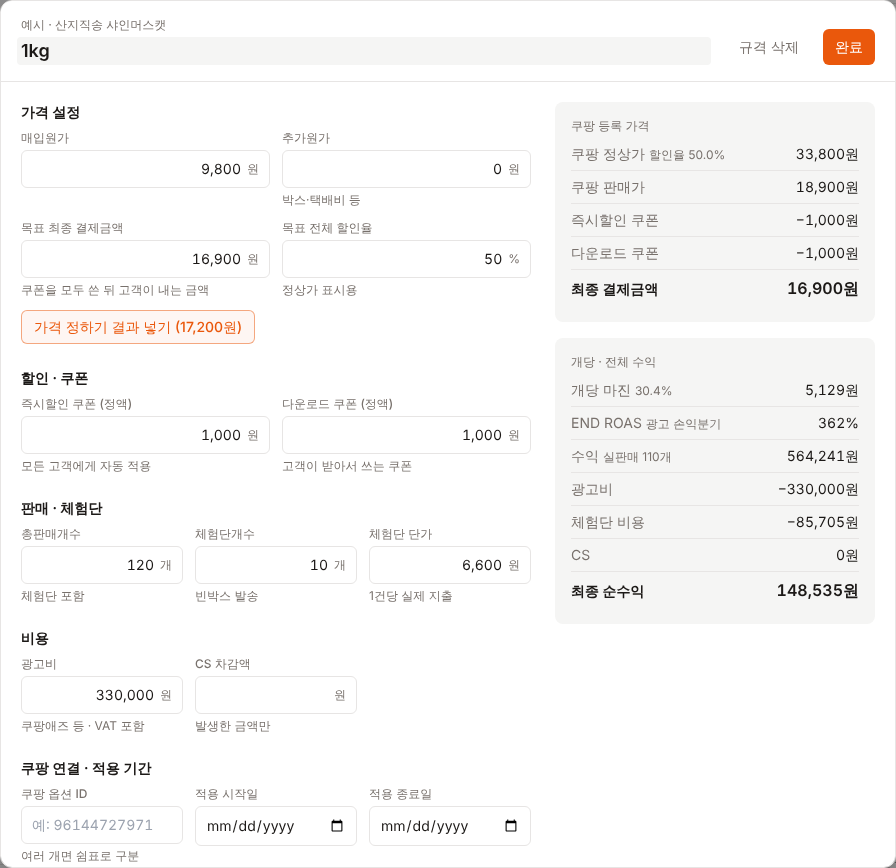
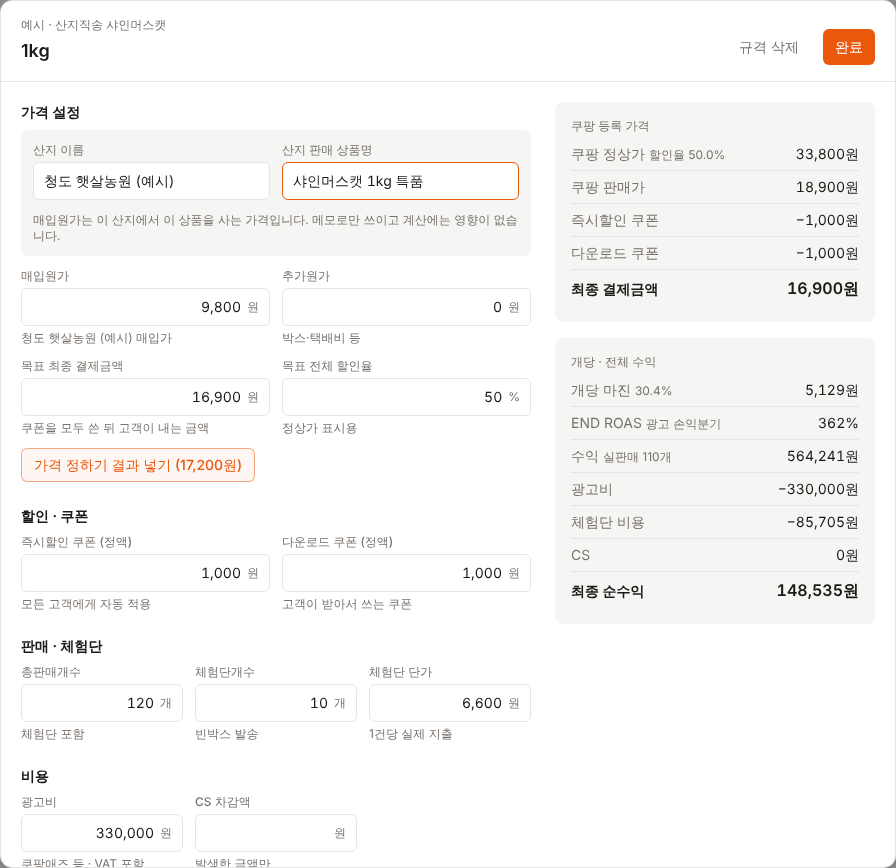
규격에 산지 이름·산지 판매 상품명 메모 추가
매입원가가 어느 산지의 어떤 상품 가격인지 남길 수 있도록 규격 편집의 가격 설정에 메모 칸 두 개를 넣었다.
상품 표의 규격 아래에 표시하고 엑셀 내보내기·불러오기에 '산지', '산지 상품명' 열로 함께 넣는다. 계산에는 영향이 없다.

Claude-Session: https://claude.ai/code/session_01Vrqhj2441wb3p9PaBYYXkv

diff --git a/assets/tailwind.css b/assets/tailwind.css
@@ -1,1 +1,1 @@
-*,:after,:before{--tw-border-spacing-x:0;--tw-border-spacing-y:0;--tw-translate-x:0;--tw-translate-y:0;--tw-rotate:0;--tw-skew-x:0;--tw-skew-y:0;--tw-scale-x:1;--tw-scale-y:1;--tw-pan-x: ;--tw-pan-y: ;--tw-pinch-zoom: ;--tw-scroll-snap-strictness:proximity;--tw-gradient-from-position: ;--tw-gradient-via-position: ;--tw-gradient-to-position: ;--tw-ordinal: ;--tw-slashed-zero: ;--tw-numeric-figure: ;--tw-numeric-spacing: ;--tw-numeric-fraction: ;--tw-ring-inset: ;--tw-ring-offset-width:0px;--tw-ring-offset-color:#fff;--tw-ring-color:rgba(59,130,246,.5);--tw-ring-offset-shadow:0 0 #0000;--tw-ring-shadow:0 0 #0000;--tw-shadow:0 0 #0000;--tw-shadow-colored:0 0 #0000;--tw-blur: ;--tw-brightness: ;--tw-contrast: ;--tw-grayscale: ;--tw-hue-rotate: ;--tw-invert: ;--tw-saturate: ;--tw-sepia: ;--tw-drop-shadow: ;--tw-backdrop-blur: ;--tw-backdrop-brightness: ;--tw-backdrop-contrast: ;--tw-backdrop-grayscale: ;--tw-backdrop-hue-rotate: ;--tw-backdrop-invert: ;--tw-backdrop-opacity: ;--tw-backdrop-saturate: ;--tw-backdrop-sepia: ;--tw-contain-size: ;--tw-contain-layout: ;--tw-contain-paint: ;--tw-contain-style: }::backdrop{--tw-border-spacing-x:0;--tw-border-spacing-y:0;--tw-translate-x:0;--tw-translate-y:0;--tw-rotate:0;--tw-skew-x:0;--tw-skew-y:0;--tw-scale-x:1;--tw-scale-y:1;--tw-pan-x: ;--tw-pan-y: ;--tw-pinch-zoom: ;--tw-scroll-snap-strictness:proximity;--tw-gradient-from-position: ;--tw-gradient-via-position: ;--tw-gradient-to-position: ;--tw-ordinal: ;--tw-slashed-zero: ;--tw-numeric-figure: ;--tw-numeric-spacing: ;--tw-numeric-fraction: ;--tw-ring-inset: ;--tw-ring-offset-width:0px;--tw-ring-offset-color:#fff;--tw-ring-color:rgba(59,130,246,.5);--tw-ring-offset-shadow:0 0 #0000;--tw-ring-shadow:0 0 #0000;--tw-shadow:0 0 #0000;--tw-shadow-colored:0 0 #0000;--tw-blur: ;--tw-brightness: ;--tw-contrast: ;--tw-grayscale: ;--tw-hue-rotate: ;--tw-invert: ;--tw-saturate: ;--tw-sepia: ;--tw-drop-shadow: ;--tw-backdrop-blur: ;--tw-backdrop-brightness: ;--tw-backdrop-contrast: ;--tw-backdrop-grayscale: ;--tw-backdrop-hue-rotate: ;--tw-backdrop-invert: ;--tw-backdrop-opacity: ;--tw-backdrop-saturate: ;--tw-backdrop-sepia: ;--tw-contain-size: ;--tw-contain-layout: ;--tw-contain-paint: ;--tw-contain-style: }/*! tailwindcss v3.4.17 | MIT License | https://tailwindcss.com*/*,:after,:before{box-sizing:border-box;border:0 solid #e5e7eb}:after,:before{--tw-content:""}:host,html{line-height:1.5;-webkit-text-size-adjust:100%;-moz-tab-size:4;-o-tab-size:4;tab-size:4;font-family:var(--font-sans);font-feature-settings:normal;font-variation-settings:normal;-webkit-tap-highlight-color:transparent}body{margin:0;line-height:inherit}hr{height:0;color:inherit;border-top-width:1px}abbr:where([title]){-webkit-text-decoration:underline dotted;text-decoration:underline dotted}h1,h2,h3,h4,h5,h6{font-size:inherit;font-weight:inherit}a{color:inherit;text-decoration:inherit}b,strong{font-weight:bolder}code,kbd,pre,samp{font-family:ui-monospace,SFMono-Regular,Menlo,Monaco,Consolas,Liberation Mono,Courier New,monospace;font-feature-settings:normal;font-variation-settings:normal;font-size:1em}small{font-size:80%}sub,sup{font-size:75%;line-height:0;position:relative;vertical-align:baseline}sub{bottom:-.25em}sup{top:-.5em}table{text-indent:0;border-color:inherit;border-collapse:collapse}button,input,optgroup,select,textarea{font-family:inherit;font-feature-settings:inherit;font-variation-settings:inherit;font-size:100%;font-weight:inherit;line-height:inherit;letter-spacing:inherit;color:inherit;margin:0;padding:0}button,select{text-transform:none}button,input:where([type=button]),input:where([type=reset]),input:where([type=submit]){-webkit-appearance:button;background-color:transparent;background-image:none}:-moz-focusring{outline:auto}:-moz-ui-invalid{box-shadow:none}progress{vertical-align:baseline}::-webkit-inner-spin-button,::-webkit-outer-spin-button{height:auto}[type=search]{-webkit-appearance:textfield;outline-offset:-2px}::-webkit-search-decoration{-webkit-appearance:none}::-webkit-file-upload-button{-webkit-appearance:button;font:inherit}summary{display:list-item}blockquote,dd,dl,figure,h1,h2,h3,h4,h5,h6,hr,p,pre{margin:0}fieldset{margin:0}fieldset,legend{padding:0}menu,ol,ul{list-style:none;margin:0;padding:0}dialog{padding:0}textarea{resize:vertical}input::-moz-placeholder,textarea::-moz-placeholder{opacity:1;color:#9ca3af}input::placeholder,textarea::placeholder{opacity:1;color:#9ca3af}[role=button],button{cursor:pointer}:disabled{cursor:default}audio,canvas,embed,iframe,img,object,svg,video{display:block;vertical-align:middle}img,video{max-width:100%;height:auto}[hidden]:where(:not([hidden=until-found])){display:none}.sr-only{position:absolute;width:1px;height:1px;padding:0;margin:-1px;overflow:hidden;clip:rect(0,0,0,0);white-space:nowrap;border-width:0}.pointer-events-none{pointer-events:none}.fixed{position:fixed}.absolute{position:absolute}.relative{position:relative}.sticky{position:sticky}.inset-0{inset:0}.inset-x-0{left:0;right:0}.inset-y-0{top:0;bottom:0}.left-0{left:0}.left-1{left:.25rem}.right-0{right:0}.top-0{top:0}.top-1\/2{top:50%}.z-dialog{z-index:50}.z-drawer{z-index:40}.z-header{z-index:10}.col-span-2{grid-column:span 2/span 2}.m-auto{margin:auto}.-mx-1{margin-left:-.25rem;margin-right:-.25rem}.mx-2{margin-left:.5rem;margin-right:.5rem}.mx-auto{margin-left:auto;margin-right:auto}.-mb-px{margin-bottom:-1px}.mb-1{margin-bottom:.25rem}.mb-2{margin-bottom:.5rem}.mt-1{margin-top:.25rem}.mt-3{margin-top:.75rem}.flex{display:flex}.inline-flex{display:inline-flex}.table{display:table}.grid{display:grid}.hidden{display:none}.size-3{width:.75rem;height:.75rem}.size-4{width:1rem;height:1rem}.size-8{width:2rem;height:2rem}.size-9{width:2.25rem;height:2.25rem}.h-10{height:2.5rem}.h-full{height:100%}.max-h-\[calc\(100dvh-2rem\)\]{max-height:calc(100dvh - 2rem)}.min-h-dvh{min-height:100dvh}.w-0\.5{width:.125rem}.w-1{width:.25rem}.w-14{width:3.5rem}.w-20{width:5rem}.w-3{width:.75rem}.w-32{width:8rem}.w-36{width:9rem}.w-40{width:10rem}.w-52{width:13rem}.w-56{width:14rem}.w-\[calc\(100\%-2rem\)\]{width:calc(100% - 2rem)}.w-full{width:100%}.w-px{width:1px}.min-w-0{min-width:0}.min-w-\[560px\]{min-width:560px}.min-w-\[760px\]{min-width:760px}.min-w-\[820px\]{min-width:820px}.min-w-\[980px\]{min-width:980px}.max-w-4xl{max-width:56rem}.max-w-6xl{max-width:72rem}.max-w-\[20rem\]{max-width:20rem}.max-w-full{max-width:100%}.max-w-md{max-width:28rem}.max-w-sm{max-width:24rem}.flex-1{flex:1 1 0%}.shrink-0{flex-shrink:0}.basis-40{flex-basis:10rem}.basis-56{flex-basis:14rem}.basis-60{flex-basis:15rem}.basis-64{flex-basis:16rem}.-translate-x-1\/2{--tw-translate-x:-50%}.-translate-x-1\/2,.-translate-y-1\/2{transform:translate(var(--tw-translate-x),var(--tw-translate-y)) rotate(var(--tw-rotate)) skewX(var(--tw-skew-x)) skewY(var(--tw-skew-y)) scaleX(var(--tw-scale-x)) scaleY(var(--tw-scale-y))}.-translate-y-1\/2{--tw-translate-y:-50%}.cursor-col-resize{cursor:col-resize}.cursor-default{cursor:default}.cursor-pointer{cursor:pointer}.list-disc{list-style-type:disc}.grid-cols-2{grid-template-columns:repeat(2,minmax(0,1fr))}.grid-cols-\[minmax\(0\2c 1fr\)_auto\]{grid-template-columns:minmax(0,1fr) auto}.grid-cols-\[repeat\(auto-fill\2c minmax\(8\.5rem\2c 1fr\)\)\]{grid-template-columns:repeat(auto-fill,minmax(8.5rem,1fr))}.flex-col{flex-direction:column}.flex-wrap{flex-wrap:wrap}.items-start{align-items:flex-start}.items-end{align-items:flex-end}.items-center{align-items:center}.items-baseline{align-items:baseline}.justify-end{justify-content:flex-end}.justify-center{justify-content:center}.justify-between{justify-content:space-between}.gap-0\.5{gap:.125rem}.gap-1{gap:.25rem}.gap-1\.5{gap:.375rem}.gap-2{gap:.5rem}.gap-3{gap:.75rem}.gap-4{gap:1rem}.gap-6{gap:1.5rem}.gap-px{gap:1px}.gap-x-2{-moz-column-gap:.5rem;column-gap:.5rem}.gap-x-3{-moz-column-gap:.75rem;column-gap:.75rem}.gap-x-4{-moz-column-gap:1rem;column-gap:1rem}.gap-x-6{-moz-column-gap:1.5rem;column-gap:1.5rem}.gap-y-1{row-gap:.25rem}.gap-y-2{row-gap:.5rem}.gap-y-3{row-gap:.75rem}.divide-y>:not([hidden])~:not([hidden]){--tw-divide-y-reverse:0;border-top-width:calc(1px*(1 - var(--tw-divide-y-reverse)));border-bottom-width:calc(1px*var(--tw-divide-y-reverse))}.divide-line>:not([hidden])~:not([hidden]){--tw-divide-opacity:1;border-color:rgb(var(--line)/var(--tw-divide-opacity,1))}.self-start{align-self:flex-start}.overflow-hidden{overflow:hidden}.overflow-x-auto{overflow-x:auto}.overflow-y-auto{overflow-y:auto}.truncate{overflow:hidden;text-overflow:ellipsis}.truncate,.whitespace-nowrap{white-space:nowrap}.text-balance{text-wrap:balance}.text-pretty{text-wrap:pretty}.rounded{border-radius:.25rem}.rounded-full{border-radius:9999px}.rounded-lg{border-radius:.5rem}.rounded-md{border-radius:.375rem}.rounded-xl{border-radius:.75rem}.rounded-b{border-bottom-right-radius:.25rem;border-bottom-left-radius:.25rem}.rounded-t{border-top-left-radius:.25rem;border-top-right-radius:.25rem}.border{border-width:1px}.border-2{border-width:2px}.border-b{border-bottom-width:1px}.border-b-2{border-bottom-width:2px}.border-l{border-left-width:1px}.border-l-2{border-left-width:2px}.border-t{border-top-width:1px}.border-dashed{border-style:dashed}.border-accent{--tw-border-opacity:1;border-color:rgb(var(--accent)/var(--tw-border-opacity,1))}.border-accent\/40{border-color:rgb(var(--accent)/.4)}.border-accent\/50{border-color:rgb(var(--accent)/.5)}.border-fg\/40{border-color:rgb(var(--fg)/.4)}.border-line{--tw-border-opacity:1;border-color:rgb(var(--line)/var(--tw-border-opacity,1))}.border-neg{--tw-border-opacity:1;border-color:rgb(var(--neg)/var(--tw-border-opacity,1))}.border-surface{--tw-border-opacity:1;border-color:rgb(var(--surface)/var(--tw-border-opacity,1))}.border-transparent{border-color:transparent}.border-warn{--tw-border-opacity:1;border-color:rgb(var(--warn)/var(--tw-border-opacity,1))}.border-warn\/40{border-color:rgb(var(--warn)/.4)}.bg-accent{--tw-bg-opacity:1;background-color:rgb(var(--accent)/var(--tw-bg-opacity,1))}.bg-accent\/10{background-color:rgb(var(--accent)/.1)}.bg-accent\/15{background-color:rgb(var(--accent)/.15)}.bg-accent\/5{background-color:rgb(var(--accent)/.05)}.bg-black\/40{background-color:rgba(0,0,0,.4)}.bg-fg{background-color:rgb(var(--fg)/var(--tw-bg-opacity,1))}.bg-fg,.bg-line{--tw-bg-opacity:1}.bg-line{background-color:rgb(var(--line)/var(--tw-bg-opacity,1))}.bg-muted{--tw-bg-opacity:1;background-color:rgb(var(--muted)/var(--tw-bg-opacity,1))}.bg-neg{--tw-bg-opacity:1;background-color:rgb(var(--neg)/var(--tw-bg-opacity,1))}.bg-neg\/10{background-color:rgb(var(--neg)/.1)}.bg-pos\/10{background-color:rgb(var(--pos)/.1)}.bg-pos\/15{background-color:rgb(var(--pos)/.15)}.bg-soft{--tw-bg-opacity:1;background-color:rgb(var(--soft)/var(--tw-bg-opacity,1))}.bg-soft\/60{background-color:rgb(var(--soft)/.6)}.bg-surface{--tw-bg-opacity:1;background-color:rgb(var(--surface)/var(--tw-bg-opacity,1))}.bg-transparent{background-color:transparent}.bg-warn\/10{background-color:rgb(var(--warn)/.1)}.bg-warn\/15{background-color:rgb(var(--warn)/.15)}.p-0{padding:0}.p-1{padding:.25rem}.p-3{padding:.75rem}.p-4{padding:1rem}.p-5{padding:1.25rem}.px-1{padding-left:.25rem;padding-right:.25rem}.px-1\.5{padding-left:.375rem;padding-right:.375rem}.px-2{padding-left:.5rem;padding-right:.5rem}.px-2\.5{padding-left:.625rem;padding-right:.625rem}.px-3{padding-left:.75rem;padding-right:.75rem}.px-4{padding-left:1rem;padding-right:1rem}.px-5{padding-left:1.25rem;padding-right:1.25rem}.px-px{padding-left:1px;padding-right:1px}.py-0\.5{padding-top:.125rem;padding-bottom:.125rem}.py-1{padding-top:.25rem;padding-bottom:.25rem}.py-1\.5{padding-top:.375rem;padding-bottom:.375rem}.py-12{padding-top:3rem;padding-bottom:3rem}.py-2{padding-top:.5rem;padding-bottom:.5rem}.py-3{padding-top:.75rem;padding-bottom:.75rem}.py-4{padding-top:1rem;padding-bottom:1rem}.py-6{padding-top:1.5rem;padding-bottom:1.5rem}.pl-1\.5{padding-left:.375rem}.pl-2{padding-left:.5rem}.pl-5{padding-left:1.25rem}.pl-8{padding-left:2rem}.pr-1{padding-right:.25rem}.pt-3{padding-top:.75rem}.pt-4{padding-top:1rem}.text-left{text-align:left}.text-center{text-align:center}.text-right{text-align:right}.text-3xl{font-size:1.875rem;line-height:2.25rem}.text-\[11px\]{font-size:11px}.text-base{font-size:1rem;line-height:1.5rem}.text-lg{font-size:1.125rem;line-height:1.75rem}.text-sm{font-size:.875rem;line-height:1.25rem}.text-xs{font-size:.75rem;line-height:1rem}.font-bold{font-weight:700}.font-medium{font-weight:500}.font-normal{font-weight:400}.font-semibold{font-weight:600}.tabular-nums{--tw-numeric-spacing:tabular-nums;font-variant-numeric:var(--tw-ordinal) var(--tw-slashed-zero) var(--tw-numeric-figure) var(--tw-numeric-spacing) var(--tw-numeric-fraction)}.text-accent{--tw-text-opacity:1;color:rgb(var(--accent)/var(--tw-text-opacity,1))}.text-accent-fg{--tw-text-opacity:1;color:rgb(var(--accent-fg)/var(--tw-text-opacity,1))}.text-fg{--tw-text-opacity:1;color:rgb(var(--fg)/var(--tw-text-opacity,1))}.text-muted{--tw-text-opacity:1;color:rgb(var(--muted)/var(--tw-text-opacity,1))}.text-neg{--tw-text-opacity:1;color:rgb(var(--neg)/var(--tw-text-opacity,1))}.text-pos{--tw-text-opacity:1;color:rgb(var(--pos)/var(--tw-text-opacity,1))}.text-warn{--tw-text-opacity:1;color:rgb(var(--warn)/var(--tw-text-opacity,1))}.text-white{--tw-text-opacity:1;color:rgb(255 255 255/var(--tw-text-opacity,1))}.accent-\[rgb\(var\(--accent\)\)\]{accent-color:rgb(var(--accent))}.shadow-sm{--tw-shadow:0 1px 2px 0 rgba(0,0,0,.05);--tw-shadow-colored:0 1px 2px 0 var(--tw-shadow-color)}.shadow-sm,.shadow-xl{box-shadow:var(--tw-ring-offset-shadow,0 0 #0000),var(--tw-ring-shadow,0 0 #0000),var(--tw-shadow)}.shadow-xl{--tw-shadow:0 20px 25px -5px rgba(0,0,0,.1),0 8px 10px -6px rgba(0,0,0,.1);--tw-shadow-colored:0 20px 25px -5px var(--tw-shadow-color),0 8px 10px -6px var(--tw-shadow-color)}.outline-none{outline:2px solid transparent;outline-offset:2px}.outline{outline-style:solid}.filter{filter:var(--tw-blur) var(--tw-brightness) var(--tw-contrast) var(--tw-grayscale) var(--tw-hue-rotate) var(--tw-invert) var(--tw-saturate) var(--tw-sepia) var(--tw-drop-shadow)}.first\:border-t-0:first-child{border-top-width:0}.focus-within\:border-accent:focus-within{--tw-border-opacity:1;border-color:rgb(var(--accent)/var(--tw-border-opacity,1))}.hover\:bg-accent\/10:hover{background-color:rgb(var(--accent)/.1)}.hover\:bg-accent\/90:hover{background-color:rgb(var(--accent)/.9)}.hover\:bg-line:hover{--tw-bg-opacity:1;background-color:rgb(var(--line)/var(--tw-bg-opacity,1))}.hover\:bg-neg\/90:hover{background-color:rgb(var(--neg)/.9)}.hover\:bg-soft:hover{--tw-bg-opacity:1;background-color:rgb(var(--soft)/var(--tw-bg-opacity,1))}.hover\:bg-warn\/15:hover{background-color:rgb(var(--warn)/.15)}.hover\:text-accent:hover{--tw-text-opacity:1;color:rgb(var(--accent)/var(--tw-text-opacity,1))}.hover\:text-fg:hover{--tw-text-opacity:1;color:rgb(var(--fg)/var(--tw-text-opacity,1))}.hover\:text-neg:hover{--tw-text-opacity:1;color:rgb(var(--neg)/var(--tw-text-opacity,1))}.focus\:border-accent:focus{--tw-border-opacity:1;border-color:rgb(var(--accent)/var(--tw-border-opacity,1))}.focus\:bg-soft:focus{--tw-bg-opacity:1;background-color:rgb(var(--soft)/var(--tw-bg-opacity,1))}.disabled\:border-line:disabled{--tw-border-opacity:1;border-color:rgb(var(--line)/var(--tw-border-opacity,1))}.disabled\:bg-transparent:disabled{background-color:transparent}.disabled\:text-muted:disabled{--tw-text-opacity:1;color:rgb(var(--muted)/var(--tw-text-opacity,1))}.disabled\:opacity-50:disabled{opacity:.5}.group:hover .group-hover\:bg-accent{--tw-bg-opacity:1;background-color:rgb(var(--accent)/var(--tw-bg-opacity,1))}.group:focus-visible .group-focus-visible\:bg-accent{--tw-bg-opacity:1;background-color:rgb(var(--accent)/var(--tw-bg-opacity,1))}@media (min-width:640px){.sm\:col-span-1{grid-column:span 1/span 1}.sm\:grid-cols-3{grid-template-columns:repeat(3,minmax(0,1fr))}}@media (min-width:768px){.md\:grid-cols-2{grid-template-columns:repeat(2,minmax(0,1fr))}.md\:grid-cols-\[minmax\(0\2c 1fr\)_minmax\(0\2c 20rem\)\]{grid-template-columns:minmax(0,1fr) minmax(0,20rem)}}@media (min-width:1024px){.lg\:sticky{position:sticky}.lg\:top-6{top:1.5rem}.lg\:z-auto{z-index:auto}.lg\:my-6{margin-top:1.5rem;margin-bottom:1.5rem}.lg\:block{display:block}.lg\:hidden{display:none}.lg\:h-\[calc\(100dvh-3rem\)\]{height:calc(100dvh - 3rem)}.lg\:w-\[var\(--side-w\)\]{width:var(--side-w)}.lg\:max-w-\[var\(--group-max\)\]{max-width:var(--group-max)}.lg\:max-w-none{max-width:none}.lg\:shrink-0{flex-shrink:0}.lg\:grid-cols-6{grid-template-columns:repeat(6,minmax(0,1fr))}.lg\:grid-cols-\[minmax\(0\2c 16rem\)_minmax\(0\2c 1fr\)\]{grid-template-columns:minmax(0,16rem) minmax(0,1fr)}.lg\:overflow-hidden{overflow:hidden}.lg\:rounded-xl{border-radius:.75rem}.lg\:border{border-width:1px}.lg\:shadow-sm{--tw-shadow:0 1px 2px 0 rgba(0,0,0,.05);--tw-shadow-colored:0 1px 2px 0 var(--tw-shadow-color);box-shadow:var(--tw-ring-offset-shadow,0 0 #0000),var(--tw-ring-shadow,0 0 #0000),var(--tw-shadow)}}.\[\&\>td\]\:px-3>td{padding-left:.75rem;padding-right:.75rem}.\[\&\>td\]\:px-4>td{padding-left:1rem;padding-right:1rem}.\[\&\>td\]\:py-2>td{padding-top:.5rem;padding-bottom:.5rem}.\[\&\>td\]\:py-2\.5>td{padding-top:.625rem;padding-bottom:.625rem}.\[\&\>th\]\:px-3>th{padding-left:.75rem;padding-right:.75rem}.\[\&\>th\]\:py-2>th{padding-top:.5rem;padding-bottom:.5rem}.\[\&\>th\]\:font-medium>th{font-weight:500}
+*,:after,:before{--tw-border-spacing-x:0;--tw-border-spacing-y:0;--tw-translate-x:0;--tw-translate-y:0;--tw-rotate:0;--tw-skew-x:0;--tw-skew-y:0;--tw-scale-x:1;--tw-scale-y:1;--tw-pan-x: ;--tw-pan-y: ;--tw-pinch-zoom: ;--tw-scroll-snap-strictness:proximity;--tw-gradient-from-position: ;--tw-gradient-via-position: ;--tw-gradient-to-position: ;--tw-ordinal: ;--tw-slashed-zero: ;--tw-numeric-figure: ;--tw-numeric-spacing: ;--tw-numeric-fraction: ;--tw-ring-inset: ;--tw-ring-offset-width:0px;--tw-ring-offset-color:#fff;--tw-ring-color:rgba(59,130,246,.5);--tw-ring-offset-shadow:0 0 #0000;--tw-ring-shadow:0 0 #0000;--tw-shadow:0 0 #0000;--tw-shadow-colored:0 0 #0000;--tw-blur: ;--tw-brightness: ;--tw-contrast: ;--tw-grayscale: ;--tw-hue-rotate: ;--tw-invert: ;--tw-saturate: ;--tw-sepia: ;--tw-drop-shadow: ;--tw-backdrop-blur: ;--tw-backdrop-brightness: ;--tw-backdrop-contrast: ;--tw-backdrop-grayscale: ;--tw-backdrop-hue-rotate: ;--tw-backdrop-invert: ;--tw-backdrop-opacity: ;--tw-backdrop-saturate: ;--tw-backdrop-sepia: ;--tw-contain-size: ;--tw-contain-layout: ;--tw-contain-paint: ;--tw-contain-style: }::backdrop{--tw-border-spacing-x:0;--tw-border-spacing-y:0;--tw-translate-x:0;--tw-translate-y:0;--tw-rotate:0;--tw-skew-x:0;--tw-skew-y:0;--tw-scale-x:1;--tw-scale-y:1;--tw-pan-x: ;--tw-pan-y: ;--tw-pinch-zoom: ;--tw-scroll-snap-strictness:proximity;--tw-gradient-from-position: ;--tw-gradient-via-position: ;--tw-gradient-to-position: ;--tw-ordinal: ;--tw-slashed-zero: ;--tw-numeric-figure: ;--tw-numeric-spacing: ;--tw-numeric-fraction: ;--tw-ring-inset: ;--tw-ring-offset-width:0px;--tw-ring-offset-color:#fff;--tw-ring-color:rgba(59,130,246,.5);--tw-ring-offset-shadow:0 0 #0000;--tw-ring-shadow:0 0 #0000;--tw-shadow:0 0 #0000;--tw-shadow-colored:0 0 #0000;--tw-blur: ;--tw-brightness: ;--tw-contrast: ;--tw-grayscale: ;--tw-hue-rotate: ;--tw-invert: ;--tw-saturate: ;--tw-sepia: ;--tw-drop-shadow: ;--tw-backdrop-blur: ;--tw-backdrop-brightness: ;--tw-backdrop-contrast: ;--tw-backdrop-grayscale: ;--tw-backdrop-hue-rotate: ;--tw-backdrop-invert: ;--tw-backdrop-opacity: ;--tw-backdrop-saturate: ;--tw-backdrop-sepia: ;--tw-contain-size: ;--tw-contain-layout: ;--tw-contain-paint: ;--tw-contain-style: }/*! tailwindcss v3.4.17 | MIT License | https://tailwindcss.com*/*,:after,:before{box-sizing:border-box;border:0 solid #e5e7eb}:after,:before{--tw-content:""}:host,html{line-height:1.5;-webkit-text-size-adjust:100%;-moz-tab-size:4;-o-tab-size:4;tab-size:4;font-family:var(--font-sans);font-feature-settings:normal;font-variation-settings:normal;-webkit-tap-highlight-color:transparent}body{margin:0;line-height:inherit}hr{height:0;color:inherit;border-top-width:1px}abbr:where([title]){-webkit-text-decoration:underline dotted;text-decoration:underline dotted}h1,h2,h3,h4,h5,h6{font-size:inherit;font-weight:inherit}a{color:inherit;text-decoration:inherit}b,strong{font-weight:bolder}code,kbd,pre,samp{font-family:ui-monospace,SFMono-Regular,Menlo,Monaco,Consolas,Liberation Mono,Courier New,monospace;font-feature-settings:normal;font-variation-settings:normal;font-size:1em}small{font-size:80%}sub,sup{font-size:75%;line-height:0;position:relative;vertical-align:baseline}sub{bottom:-.25em}sup{top:-.5em}table{text-indent:0;border-color:inherit;border-collapse:collapse}button,input,optgroup,select,textarea{font-family:inherit;font-feature-settings:inherit;font-variation-settings:inherit;font-size:100%;font-weight:inherit;line-height:inherit;letter-spacing:inherit;color:inherit;margin:0;padding:0}button,select{text-transform:none}button,input:where([type=button]),input:where([type=reset]),input:where([type=submit]){-webkit-appearance:button;background-color:transparent;background-image:none}:-moz-focusring{outline:auto}:-moz-ui-invalid{box-shadow:none}progress{vertical-align:baseline}::-webkit-inner-spin-button,::-webkit-outer-spin-button{height:auto}[type=search]{-webkit-appearance:textfield;outline-offset:-2px}::-webkit-search-decoration{-webkit-appearance:none}::-webkit-file-upload-button{-webkit-appearance:button;font:inherit}summary{display:list-item}blockquote,dd,dl,figure,h1,h2,h3,h4,h5,h6,hr,p,pre{margin:0}fieldset{margin:0}fieldset,legend{padding:0}menu,ol,ul{list-style:none;margin:0;padding:0}dialog{padding:0}textarea{resize:vertical}input::-moz-placeholder,textarea::-moz-placeholder{opacity:1;color:#9ca3af}input::placeholder,textarea::placeholder{opacity:1;color:#9ca3af}[role=button],button{cursor:pointer}:disabled{cursor:default}audio,canvas,embed,iframe,img,object,svg,video{display:block;vertical-align:middle}img,video{max-width:100%;height:auto}[hidden]:where(:not([hidden=until-found])){display:none}.sr-only{position:absolute;width:1px;height:1px;padding:0;margin:-1px;overflow:hidden;clip:rect(0,0,0,0);white-space:nowrap;border-width:0}.pointer-events-none{pointer-events:none}.fixed{position:fixed}.absolute{position:absolute}.relative{position:relative}.sticky{position:sticky}.inset-0{inset:0}.inset-x-0{left:0;right:0}.inset-y-0{top:0;bottom:0}.left-0{left:0}.left-1{left:.25rem}.right-0{right:0}.top-0{top:0}.top-1\/2{top:50%}.z-dialog{z-index:50}.z-drawer{z-index:40}.z-header{z-index:10}.col-span-2{grid-column:span 2/span 2}.m-auto{margin:auto}.-mx-1{margin-left:-.25rem;margin-right:-.25rem}.mx-2{margin-left:.5rem;margin-right:.5rem}.mx-auto{margin-left:auto;margin-right:auto}.-mb-px{margin-bottom:-1px}.mb-1{margin-bottom:.25rem}.mb-2{margin-bottom:.5rem}.mt-1{margin-top:.25rem}.mt-3{margin-top:.75rem}.flex{display:flex}.inline-flex{display:inline-flex}.table{display:table}.grid{display:grid}.hidden{display:none}.size-3{width:.75rem;height:.75rem}.size-4{width:1rem;height:1rem}.size-8{width:2rem;height:2rem}.size-9{width:2.25rem;height:2.25rem}.h-10{height:2.5rem}.h-full{height:100%}.max-h-\[calc\(100dvh-2rem\)\]{max-height:calc(100dvh - 2rem)}.min-h-dvh{min-height:100dvh}.w-0\.5{width:.125rem}.w-1{width:.25rem}.w-14{width:3.5rem}.w-20{width:5rem}.w-3{width:.75rem}.w-32{width:8rem}.w-36{width:9rem}.w-40{width:10rem}.w-52{width:13rem}.w-56{width:14rem}.w-\[calc\(100\%-2rem\)\]{width:calc(100% - 2rem)}.w-full{width:100%}.w-px{width:1px}.min-w-0{min-width:0}.min-w-\[560px\]{min-width:560px}.min-w-\[760px\]{min-width:760px}.min-w-\[820px\]{min-width:820px}.min-w-\[980px\]{min-width:980px}.max-w-4xl{max-width:56rem}.max-w-6xl{max-width:72rem}.max-w-\[14rem\]{max-width:14rem}.max-w-\[20rem\]{max-width:20rem}.max-w-full{max-width:100%}.max-w-md{max-width:28rem}.max-w-sm{max-width:24rem}.flex-1{flex:1 1 0%}.shrink-0{flex-shrink:0}.basis-40{flex-basis:10rem}.basis-56{flex-basis:14rem}.basis-60{flex-basis:15rem}.basis-64{flex-basis:16rem}.-translate-x-1\/2{--tw-translate-x:-50%}.-translate-x-1\/2,.-translate-y-1\/2{transform:translate(var(--tw-translate-x),var(--tw-translate-y)) rotate(var(--tw-rotate)) skewX(var(--tw-skew-x)) skewY(var(--tw-skew-y)) scaleX(var(--tw-scale-x)) scaleY(var(--tw-scale-y))}.-translate-y-1\/2{--tw-translate-y:-50%}.cursor-col-resize{cursor:col-resize}.cursor-default{cursor:default}.cursor-pointer{cursor:pointer}.list-disc{list-style-type:disc}.grid-cols-2{grid-template-columns:repeat(2,minmax(0,1fr))}.grid-cols-\[minmax\(0\2c 1fr\)_auto\]{grid-template-columns:minmax(0,1fr) auto}.grid-cols-\[repeat\(auto-fill\2c minmax\(8\.5rem\2c 1fr\)\)\]{grid-template-columns:repeat(auto-fill,minmax(8.5rem,1fr))}.flex-col{flex-direction:column}.flex-wrap{flex-wrap:wrap}.items-start{align-items:flex-start}.items-end{align-items:flex-end}.items-center{align-items:center}.items-baseline{align-items:baseline}.justify-end{justify-content:flex-end}.justify-center{justify-content:center}.justify-between{justify-content:space-between}.gap-0\.5{gap:.125rem}.gap-1{gap:.25rem}.gap-1\.5{gap:.375rem}.gap-2{gap:.5rem}.gap-3{gap:.75rem}.gap-4{gap:1rem}.gap-6{gap:1.5rem}.gap-px{gap:1px}.gap-x-2{-moz-column-gap:.5rem;column-gap:.5rem}.gap-x-3{-moz-column-gap:.75rem;column-gap:.75rem}.gap-x-4{-moz-column-gap:1rem;column-gap:1rem}.gap-x-6{-moz-column-gap:1.5rem;column-gap:1.5rem}.gap-y-1{row-gap:.25rem}.gap-y-2{row-gap:.5rem}.gap-y-3{row-gap:.75rem}.divide-y>:not([hidden])~:not([hidden]){--tw-divide-y-reverse:0;border-top-width:calc(1px*(1 - var(--tw-divide-y-reverse)));border-bottom-width:calc(1px*var(--tw-divide-y-reverse))}.divide-line>:not([hidden])~:not([hidden]){--tw-divide-opacity:1;border-color:rgb(var(--line)/var(--tw-divide-opacity,1))}.self-start{align-self:flex-start}.overflow-hidden{overflow:hidden}.overflow-x-auto{overflow-x:auto}.overflow-y-auto{overflow-y:auto}.truncate{overflow:hidden;text-overflow:ellipsis}.truncate,.whitespace-nowrap{white-space:nowrap}.text-balance{text-wrap:balance}.text-pretty{text-wrap:pretty}.rounded{border-radius:.25rem}.rounded-full{border-radius:9999px}.rounded-lg{border-radius:.5rem}.rounded-md{border-radius:.375rem}.rounded-xl{border-radius:.75rem}.rounded-b{border-bottom-right-radius:.25rem;border-bottom-left-radius:.25rem}.rounded-t{border-top-left-radius:.25rem;border-top-right-radius:.25rem}.border{border-width:1px}.border-2{border-width:2px}.border-b{border-bottom-width:1px}.border-b-2{border-bottom-width:2px}.border-l{border-left-width:1px}.border-l-2{border-left-width:2px}.border-t{border-top-width:1px}.border-dashed{border-style:dashed}.border-accent{--tw-border-opacity:1;border-color:rgb(var(--accent)/var(--tw-border-opacity,1))}.border-accent\/40{border-color:rgb(var(--accent)/.4)}.border-accent\/50{border-color:rgb(var(--accent)/.5)}.border-fg\/40{border-color:rgb(var(--fg)/.4)}.border-line{--tw-border-opacity:1;border-color:rgb(var(--line)/var(--tw-border-opacity,1))}.border-neg{--tw-border-opacity:1;border-color:rgb(var(--neg)/var(--tw-border-opacity,1))}.border-surface{--tw-border-opacity:1;border-color:rgb(var(--surface)/var(--tw-border-opacity,1))}.border-transparent{border-color:transparent}.border-warn{--tw-border-opacity:1;border-color:rgb(var(--warn)/var(--tw-border-opacity,1))}.border-warn\/40{border-color:rgb(var(--warn)/.4)}.bg-accent{--tw-bg-opacity:1;background-color:rgb(var(--accent)/var(--tw-bg-opacity,1))}.bg-accent\/10{background-color:rgb(var(--accent)/.1)}.bg-accent\/15{background-color:rgb(var(--accent)/.15)}.bg-accent\/5{background-color:rgb(var(--accent)/.05)}.bg-black\/40{background-color:rgba(0,0,0,.4)}.bg-fg{background-color:rgb(var(--fg)/var(--tw-bg-opacity,1))}.bg-fg,.bg-line{--tw-bg-opacity:1}.bg-line{background-color:rgb(var(--line)/var(--tw-bg-opacity,1))}.bg-muted{--tw-bg-opacity:1;background-color:rgb(var(--muted)/var(--tw-bg-opacity,1))}.bg-neg{--tw-bg-opacity:1;background-color:rgb(var(--neg)/var(--tw-bg-opacity,1))}.bg-neg\/10{background-color:rgb(var(--neg)/.1)}.bg-pos\/10{background-color:rgb(var(--pos)/.1)}.bg-pos\/15{background-color:rgb(var(--pos)/.15)}.bg-soft{--tw-bg-opacity:1;background-color:rgb(var(--soft)/var(--tw-bg-opacity,1))}.bg-soft\/60{background-color:rgb(var(--soft)/.6)}.bg-surface{--tw-bg-opacity:1;background-color:rgb(var(--surface)/var(--tw-bg-opacity,1))}.bg-transparent{background-color:transparent}.bg-warn\/10{background-color:rgb(var(--warn)/.1)}.bg-warn\/15{background-color:rgb(var(--warn)/.15)}.p-0{padding:0}.p-1{padding:.25rem}.p-3{padding:.75rem}.p-4{padding:1rem}.p-5{padding:1.25rem}.px-1{padding-left:.25rem;padding-right:.25rem}.px-1\.5{padding-left:.375rem;padding-right:.375rem}.px-2{padding-left:.5rem;padding-right:.5rem}.px-2\.5{padding-left:.625rem;padding-right:.625rem}.px-3{padding-left:.75rem;padding-right:.75rem}.px-4{padding-left:1rem;padding-right:1rem}.px-5{padding-left:1.25rem;padding-right:1.25rem}.px-px{padding-left:1px;padding-right:1px}.py-0\.5{padding-top:.125rem;padding-bottom:.125rem}.py-1{padding-top:.25rem;padding-bottom:.25rem}.py-1\.5{padding-top:.375rem;padding-bottom:.375rem}.py-12{padding-top:3rem;padding-bottom:3rem}.py-2{padding-top:.5rem;padding-bottom:.5rem}.py-3{padding-top:.75rem;padding-bottom:.75rem}.py-4{padding-top:1rem;padding-bottom:1rem}.py-6{padding-top:1.5rem;padding-bottom:1.5rem}.pl-1\.5{padding-left:.375rem}.pl-2{padding-left:.5rem}.pl-5{padding-left:1.25rem}.pl-8{padding-left:2rem}.pr-1{padding-right:.25rem}.pt-3{padding-top:.75rem}.pt-4{padding-top:1rem}.text-left{text-align:left}.text-center{text-align:center}.text-right{text-align:right}.text-3xl{font-size:1.875rem;line-height:2.25rem}.text-\[11px\]{font-size:11px}.text-base{font-size:1rem;line-height:1.5rem}.text-lg{font-size:1.125rem;line-height:1.75rem}.text-sm{font-size:.875rem;line-height:1.25rem}.text-xs{font-size:.75rem;line-height:1rem}.font-bold{font-weight:700}.font-medium{font-weight:500}.font-normal{font-weight:400}.font-semibold{font-weight:600}.tabular-nums{--tw-numeric-spacing:tabular-nums;font-variant-numeric:var(--tw-ordinal) var(--tw-slashed-zero) var(--tw-numeric-figure) var(--tw-numeric-spacing) var(--tw-numeric-fraction)}.text-accent{--tw-text-opacity:1;color:rgb(var(--accent)/var(--tw-text-opacity,1))}.text-accent-fg{--tw-text-opacity:1;color:rgb(var(--accent-fg)/var(--tw-text-opacity,1))}.text-fg{--tw-text-opacity:1;color:rgb(var(--fg)/var(--tw-text-opacity,1))}.text-muted{--tw-text-opacity:1;color:rgb(var(--muted)/var(--tw-text-opacity,1))}.text-neg{--tw-text-opacity:1;color:rgb(var(--neg)/var(--tw-text-opacity,1))}.text-pos{--tw-text-opacity:1;color:rgb(var(--pos)/var(--tw-text-opacity,1))}.text-warn{--tw-text-opacity:1;color:rgb(var(--warn)/var(--tw-text-opacity,1))}.text-white{--tw-text-opacity:1;color:rgb(255 255 255/var(--tw-text-opacity,1))}.accent-\[rgb\(var\(--accent\)\)\]{accent-color:rgb(var(--accent))}.shadow-sm{--tw-shadow:0 1px 2px 0 rgba(0,0,0,.05);--tw-shadow-colored:0 1px 2px 0 var(--tw-shadow-color)}.shadow-sm,.shadow-xl{box-shadow:var(--tw-ring-offset-shadow,0 0 #0000),var(--tw-ring-shadow,0 0 #0000),var(--tw-shadow)}.shadow-xl{--tw-shadow:0 20px 25px -5px rgba(0,0,0,.1),0 8px 10px -6px rgba(0,0,0,.1);--tw-shadow-colored:0 20px 25px -5px var(--tw-shadow-color),0 8px 10px -6px var(--tw-shadow-color)}.outline-none{outline:2px solid transparent;outline-offset:2px}.outline{outline-style:solid}.filter{filter:var(--tw-blur) var(--tw-brightness) var(--tw-contrast) var(--tw-grayscale) var(--tw-hue-rotate) var(--tw-invert) var(--tw-saturate) var(--tw-sepia) var(--tw-drop-shadow)}.first\:border-t-0:first-child{border-top-width:0}.focus-within\:border-accent:focus-within{--tw-border-opacity:1;border-color:rgb(var(--accent)/var(--tw-border-opacity,1))}.hover\:bg-accent\/10:hover{background-color:rgb(var(--accent)/.1)}.hover\:bg-accent\/90:hover{background-color:rgb(var(--accent)/.9)}.hover\:bg-line:hover{--tw-bg-opacity:1;background-color:rgb(var(--line)/var(--tw-bg-opacity,1))}.hover\:bg-neg\/90:hover{background-color:rgb(var(--neg)/.9)}.hover\:bg-soft:hover{--tw-bg-opacity:1;background-color:rgb(var(--soft)/var(--tw-bg-opacity,1))}.hover\:bg-warn\/15:hover{background-color:rgb(var(--warn)/.15)}.hover\:text-accent:hover{--tw-text-opacity:1;color:rgb(var(--accent)/var(--tw-text-opacity,1))}.hover\:text-fg:hover{--tw-text-opacity:1;color:rgb(var(--fg)/var(--tw-text-opacity,1))}.hover\:text-neg:hover{--tw-text-opacity:1;color:rgb(var(--neg)/var(--tw-text-opacity,1))}.focus\:border-accent:focus{--tw-border-opacity:1;border-color:rgb(var(--accent)/var(--tw-border-opacity,1))}.focus\:bg-soft:focus{--tw-bg-opacity:1;background-color:rgb(var(--soft)/var(--tw-bg-opacity,1))}.disabled\:border-line:disabled{--tw-border-opacity:1;border-color:rgb(var(--line)/var(--tw-border-opacity,1))}.disabled\:bg-transparent:disabled{background-color:transparent}.disabled\:text-muted:disabled{--tw-text-opacity:1;color:rgb(var(--muted)/var(--tw-text-opacity,1))}.disabled\:opacity-50:disabled{opacity:.5}.group:hover .group-hover\:bg-accent{--tw-bg-opacity:1;background-color:rgb(var(--accent)/var(--tw-bg-opacity,1))}.group:focus-visible .group-focus-visible\:bg-accent{--tw-bg-opacity:1;background-color:rgb(var(--accent)/var(--tw-bg-opacity,1))}@media (min-width:640px){.sm\:col-span-1{grid-column:span 1/span 1}.sm\:grid-cols-3{grid-template-columns:repeat(3,minmax(0,1fr))}}@media (min-width:768px){.md\:grid-cols-2{grid-template-columns:repeat(2,minmax(0,1fr))}.md\:grid-cols-\[minmax\(0\2c 1fr\)_minmax\(0\2c 20rem\)\]{grid-template-columns:minmax(0,1fr) minmax(0,20rem)}}@media (min-width:1024px){.lg\:sticky{position:sticky}.lg\:top-6{top:1.5rem}.lg\:z-auto{z-index:auto}.lg\:my-6{margin-top:1.5rem;margin-bottom:1.5rem}.lg\:block{display:block}.lg\:hidden{display:none}.lg\:h-\[calc\(100dvh-3rem\)\]{height:calc(100dvh - 3rem)}.lg\:w-\[var\(--side-w\)\]{width:var(--side-w)}.lg\:max-w-\[var\(--group-max\)\]{max-width:var(--group-max)}.lg\:max-w-none{max-width:none}.lg\:shrink-0{flex-shrink:0}.lg\:grid-cols-6{grid-template-columns:repeat(6,minmax(0,1fr))}.lg\:grid-cols-\[minmax\(0\2c 16rem\)_minmax\(0\2c 1fr\)\]{grid-template-columns:minmax(0,16rem) minmax(0,1fr)}.lg\:overflow-hidden{overflow:hidden}.lg\:rounded-xl{border-radius:.75rem}.lg\:border{border-width:1px}.lg\:shadow-sm{--tw-shadow:0 1px 2px 0 rgba(0,0,0,.05);--tw-shadow-colored:0 1px 2px 0 var(--tw-shadow-color);box-shadow:var(--tw-ring-offset-shadow,0 0 #0000),var(--tw-ring-shadow,0 0 #0000),var(--tw-shadow)}}.\[\&\>td\]\:px-3>td{padding-left:.75rem;padding-right:.75rem}.\[\&\>td\]\:px-4>td{padding-left:1rem;padding-right:1rem}.\[\&\>td\]\:py-2>td{padding-top:.5rem;padding-bottom:.5rem}.\[\&\>td\]\:py-2\.5>td{padding-top:.625rem;padding-bottom:.625rem}.\[\&\>th\]\:px-3>th{padding-left:.75rem;padding-right:.75rem}.\[\&\>th\]\:py-2>th{padding-top:.5rem;padding-bottom:.5rem}.\[\&\>th\]\:font-medium>th{font-weight:500}

diff --git a/index.html b/index.html
@@ -386,7 +386,7 @@ function tossFee(t) {
 const settingsKey = (ch) => (ch === 'toss' ? 'tossSettings' : 'settings');
 const channelOf = (p) => p.channel || 'coupang';
 const emptyOption = (o = {}) => ({ id: uid(), option: '', cost: '', extraCost: 0, targetPay: '',
-  instantCoupon: 0, downloadCoupon: 0, targetDiscount: 0, trialCount: '', trialPrice: '', totalSales: '', adCost: '', cs: '', optionId: '', periodFrom: '', periodTo: '', ...o });
+  instantCoupon: 0, downloadCoupon: 0, targetDiscount: 0, trialCount: '', trialPrice: '', totalSales: '', adCost: '', cs: '', optionId: '', periodFrom: '', periodTo: '', supplier: '', supplierItem: '', ...o });
 
 const EXAMPLE = {
   isExample: true,
@@ -451,7 +451,7 @@ function saveFile(filename, data, type) {
 
 // ───────────── 엑셀 불러오기 / 내보내기 ─────────────
 const COLS = [
-  ['name', '상품명'], ['option', '규격'], ['optionId', '옵션 ID'], ['periodFrom', '적용 시작일'], ['periodTo', '적용 종료일'], ['cost', '매입원가'], ['extraCost', '추가원가'], ['targetPay', '목표 최종 결제금액'],
+  ['name', '상품명'], ['option', '규격'], ['optionId', '옵션 ID'], ['periodFrom', '적용 시작일'], ['periodTo', '적용 종료일'], ['supplier', '산지'], ['supplierItem', '산지 상품명'], ['cost', '매입원가'], ['extraCost', '추가원가'], ['targetPay', '목표 최종 결제금액'],
   ['instantCoupon', ['즉시할인 쿠폰', '정액쿠폰']],
   ['downloadCoupon', '다운로드 쿠폰'], ['targetDiscount', '목표 전체 할인율'],
   ['trialCount', '체험단개수'], ['trialPrice', '체험단 단가'], ['totalSales', '총판매개수'], ['adCost', '광고비'], ['cs', 'CS 차감액'],
@@ -498,13 +498,13 @@ function parseWorkbook(buf) {
 
 function buildWorkbook(data) {
   const g = data.settings;
-  const head = ['상품명', '규격', '옵션 ID', '적용 시작일', '적용 종료일', '매입원가', '추가원가', '목표 최종 결제금액', '즉시할인 쿠폰(정액)', '다운로드 쿠폰(정액)', '목표 전체 할인율',
+  const head = ['상품명', '규격', '옵션 ID', '적용 시작일', '적용 종료일', '산지', '산지 상품명', '매입원가', '추가원가', '목표 최종 결제금액', '즉시할인 쿠폰(정액)', '다운로드 쿠폰(정액)', '목표 전체 할인율',
     '쿠팡 정상가', '쿠팡 판매가', '즉시할인 쿠폰 금액', '다운로드 쿠폰 금액', '최종 결제금액', '최종 할인율', '개당 마진', '마진율',
     '실제 판매개수', '체험단개수', '체험단 단가', '총판매개수', '수익', '광고비(쿠팡애즈)', '마케팅비(체험단)', '비용 차감 순수익', 'END ROAS', 'CS 차감액', '최종 순수익'];
   const rows = [['판매수수료율', g.feeRate, '가격 단위', g.priceUnit, '광고비 VAT', g.adVat], [], head];
   for (const p of data.products) for (const o of p.options) {
     const c = calcRow(o, g);
-    rows.push([p.name, o.option, o.optionId || '', o.periodFrom || '', o.periodTo || '', num(o.cost), num(o.extraCost), num(o.targetPay), num(o.instantCoupon), num(o.downloadCoupon), num(o.targetDiscount),
+    rows.push([p.name, o.option, o.optionId || '', o.periodFrom || '', o.periodTo || '', o.supplier || '', o.supplierItem || '', num(o.cost), num(o.extraCost), num(o.targetPay), num(o.instantCoupon), num(o.downloadCoupon), num(o.targetDiscount),
       c.listPrice, c.salePrice, c.instantCouponAmt, c.downloadCouponAmt, c.pay, c.finalDiscount, Math.round(c.margin), c.marginRate,
       c.realSales ?? '수량확인', o.trialCount, o.trialPrice, o.totalSales, c.revenue == null ? '수량확인' : Math.round(c.revenue),
       c.adCost, Math.round(c.trialCost), c.netAfterCost == null ? '수량확인' : Math.round(c.netAfterCost),
@@ -565,8 +565,13 @@ function OptionForm({ opt, set, settings, idp, pickedPrice }) {
       <div class="flex flex-col gap-6 min-w-0">
         <fieldset class="flex flex-col gap-3">
           <legend class="mb-2 text-sm font-semibold">가격 설정</legend>
+          <div class="grid grid-cols-2 gap-3 rounded-lg bg-soft p-3">
+            <${TextField} id=${idp + 'sup'} label="산지 이름" value=${opt.supplier} placeholder="예: 청도 ○○농원" onChange=${(v) => set({ supplier: v })} />
+            <${TextField} id=${idp + 'supitem'} label="산지 판매 상품명" value=${opt.supplierItem} placeholder="예: 반시 5kg 특품" onChange=${(v) => set({ supplierItem: v })} />
+            <p class="col-span-2 text-xs text-muted text-pretty">매입원가는 이 산지에서 이 상품을 사는 가격입니다. 메모로만 쓰이고 계산에는 영향이 없습니다.</p>
+          </div>
           <div class="grid grid-cols-2 gap-3">
-            ${f('cost', '매입원가', 'won')}
+            ${f('cost', '매입원가', 'won', opt.supplier ? `${opt.supplier} 매입가` : '산지에서 사는 가격')}
             ${f('extraCost', '추가원가', 'won', '박스·택배비 등')}
             ${f('targetPay', '목표 최종 결제금액', 'won', '쿠폰을 모두 쓴 뒤 고객이 내는 금액')}
             ${f('targetDiscount', '목표 전체 할인율', 'pct', '정상가 표시용')}
@@ -728,7 +733,8 @@ function ProductCard({ p, settings, onRename, onEdit, onAdd, onDelete }) {
               return html`
                 <tr key=${o.id} class="cursor-pointer border-t border-line text-right hover:bg-soft [&>td]:px-3 [&>td]:py-2.5" onClick=${() => onEdit(o.id)}>
                   <td class="text-left font-medium">${o.option || html`<span class="text-muted">규격 없음</span>`}${o.periodFrom || o.periodTo
-                    ? html`<div class="text-xs font-normal text-muted">${o.periodFrom ? shortDate(o.periodFrom) : ''} ~ ${o.periodTo ? shortDate(o.periodTo) : ''}</div>` : null}</td>
+                    ? html`<div class="text-xs font-normal text-muted">${o.periodFrom ? shortDate(o.periodFrom) : ''} ~ ${o.periodTo ? shortDate(o.periodTo) : ''}</div>` : null}${o.supplier || o.supplierItem
+                    ? html`<div class="max-w-[14rem] truncate text-xs font-normal text-muted" title=${[o.supplier, o.supplierItem].filter(Boolean).join(' · ')}>산지 ${[o.supplier, o.supplierItem].filter(Boolean).join(' · ')}</div>` : null}</td>
                   <td>${won(c.pay)}</td>
                   <td><span>${wonShort(c.listPrice)}</span> <span class="text-muted">${pct(c.finalDiscount, 0)}</span></td>
                   <td><span class=${tone(c.margin)}>${wonShort(c.margin)}</span> <span class="text-muted">${pct(c.marginRate)}</span></td>

diff --git a/README.md b/README.md
@@ -41,6 +41,7 @@
 ![규격 편집](docs/screenshots/02-edit.png)
 
 - 표에서 규격 행을 누르면 열립니다. 왼쪽에 입력하면 오른쪽 쿠팡 등록 가격과 수익이 바로 바뀝니다.
+- **가격 설정** 맨 위에 **산지 이름**과 **산지 판매 상품명**을 메모로 적어 둘 수 있습니다. 매입원가가 어느 산지의 어떤 상품 가격인지 남겨 두는 용도로, 계산에는 영향이 없습니다. 상품 표의 규격 아래에도 표시되고 엑셀 내보내기·불러오기에 함께 들어갑니다.
 - 가격 정하기 패널에서 가격을 정해 두면 목표 최종 결제금액 아래에 **가격 정하기 결과 넣기** 버튼이 생깁니다. 누르면 그 가격이 바로 들어가고, 이미 같은 가격이면 "적용됨"으로 표시됩니다.
 - **쿠팡 연결 · 적용 기간**에 쿠팡 옵션 ID와 가격 적용 기간을 넣으면 월별 분석에서 그 달의 매입원가와 쿠폰 설정을 씁니다.
 
